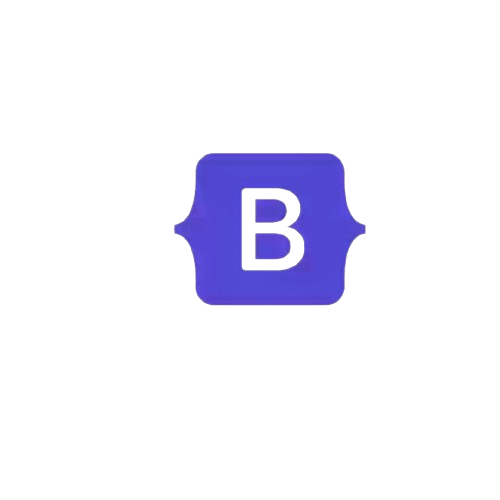
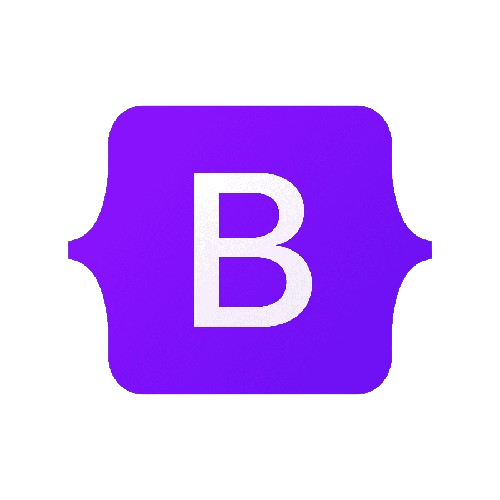
redesign of marquee 1 of 2

diff --git a/React-Portfolio-Project/src/components/pages/skills/Marquee.jsx b/React-Portfolio-Project/src/components/pages/skills/Marquee.jsx
@@ -1,34 +1,32 @@
 // a vertical marquee component that displays my web dev tech stack
 
-import nodeJSIMG from '../../../assets/marquee/nodeJSIMG.jpg'
-import reactIMG from '../../../assets/marquee/reactIMG.png'
-import tailwindIMG from '../../../assets/marquee/tailwindIMG.png'
-import bootstrapIMG from '../../../assets/marquee/bootstrapIMG.webp'
-import djangoIMG from '../../../assets/marquee/djangoIMG.png'
-import htmlandcssIMG from '../../../assets/marquee/htmlandcssIMG.jpg'
-import jsIMG from '../../../assets/marquee/jsIMG.jpg'
-import pythonIMG from '../../../assets/marquee/pythonIMG.png'
-import vueIMG from '../../../assets/marquee/vueIMG.jpg'
-import sqlIMG from '../../../assets/marquee/sqlIMG.png'
+import JS_no_BG from "../../../assets/marquee/JS_no_BG.png";
+import NODEJS_no_BG from "../../../assets/marquee/NODEJS_no_BG.png";
+import REACT_no_BG from "../../../assets/marquee/REACT_no_BG.png";
+import VUE_no_BG from "../../../assets/marquee/VUE_no_BG.png";
+import BS_no_BG from "../../../assets/marquee/BS_no_BG.png";
+import DJANGO_no_BG from "../../../assets/marquee/DJANGO_no_BG.png";
+import PYTHON_no_BG from "../../../assets/marquee/PYTHON_no_BG.png";
+import SQL_no_BG from "../../../assets/marquee/SQL_no_BG.png";
+import tailwindIMG from '../../../assets/marquee/tailwindIMG.png';
 
 const logos = [
-  { src: sqlIMG, alt: "SQL Logo", additionalClass: "" },
-  { src: djangoIMG, alt: "Django Logo", additionalClass: "" },
-  { src: pythonIMG, alt: "Python Logo", additionalClass: "" },
-  { src: bootstrapIMG, alt: "Bootstrap Logo", additionalClass: "scale-125" },
-  { src: tailwindIMG, alt: "Tailwind CSS Logo", additionalClass: "scale-90" },
-  { src: vueIMG, alt: "Vue Logo", additionalClass: "" },
-  { src: reactIMG, alt: "React Logo", additionalClass: "" },
-  { src: nodeJSIMG, alt: "NodeJS Logo", additionalClass: "scale-90" },
-  { src: jsIMG, alt: "JavaScript Logo", additionalClass: "" },
-  { src: htmlandcssIMG, alt: "HTML and CSS Logo", additionalClass: "mb-8 scale-150" },
-];
+  { src: SQL_no_BG, alt: 'SQL Logo', additionalClass: '' },
+  { src: PYTHON_no_BG, alt: 'Python Logo', additionalClass: '' },
+  { src: DJANGO_no_BG, alt: 'Django Logo', additionalClass: '' },
+  { src: NODEJS_no_BG, alt: 'NodeJS Logo', additionalClass: 'scale-90' },
+  { src: REACT_no_BG, alt: 'React Logo', additionalClass: 'scale-90' },
+  { src: VUE_no_BG, alt: 'Vue Logo', additionalClass: '' },
+  { src: BS_no_BG, alt: 'Bootstrap Logo', additionalClass: 'scale-125' },
+  { src: JS_no_BG, alt: 'JavaScript Logo', additionalClass: '' },
+  { src: tailwindIMG, alt: 'Tailwind CSS Logo', additionalClass: 'scale-90' }
+]
 
 function MarqueeRow({ className }) {
   return (
     <div className={className}>
       {logos.map((logo, index) => (
-        <span key={index} className={`mx-1 md:mx-2 lg:mx-4 xl:mx-5 ${logo.additionalClass}`}>
+        <span key={index} className={`${logo.additionalClass}`}>
           <img src={logo.src} alt={logo.alt} />
         </span>
       ))}
@@ -38,9 +36,11 @@ function MarqueeRow({ className }) {
 
 export default function Marquee() {
   return (
-    <div className="flex relative h-screen flex-col overflow-y-hidden">
-      <MarqueeRow className="animate-marquee absolute flex grow flex-col gap-8 whitespace-nowrap" />
-      <MarqueeRow className="animate-marquee2 absolute top-0 flex flex-col gap-8 whitespace-nowrap" />
+    <div className=" relative w-1/10 md:w-1/11 lg:w-1/12 xl:w-1/14 2xl:w-1/18">
+      <div className="relative flex h-screen flex-col overflow-y-hidden">
+        <MarqueeRow className="absolute flex grow animate-marquee gap-5 flex-col whitespace-nowrap" />
+        <MarqueeRow className="absolute top-0 flex animate-marquee2 gap-5 flex-col whitespace-nowrap" />
+      </div>
     </div>
-  );
+  )
 }

diff --git a/React-Portfolio-Project/src/components/pages/skills/SkillsPage.jsx b/React-Portfolio-Project/src/components/pages/skills/SkillsPage.jsx
@@ -1,7 +1,6 @@
 // child component detailing my web dev skills
 
 // import KeyboardArrows from '../../features/KeyboardArrows'
-import CombinedSlantedEdge from '../../shapes/CombinedSlantedEdge'
 import Marquee from './Marquee'
 import SkillsGrid from './SkillsGrid'
 
@@ -14,15 +13,13 @@ export default function SkillsPage() {
   //   right: keyClasses.keyInactiveClass,
   // }
 
-  const combinedSlantedEdgeClasses =
-    'shrink-0 relative w-1/10 md:w-1/11 lg:w-1/12 xl:w-1/14 2xl:w-1/18 bg-white border-r-2 border-gray-800'
+
+
 
   return (
     <div className="section">
       <div className="flex size-full">
-        <CombinedSlantedEdge classNames={combinedSlantedEdgeClasses}>
-          <Marquee />
-        </CombinedSlantedEdge>
+        <Marquee />
         <SkillsGrid />
       </div>
       {/* <KeyboardArrows keyStyling={keyStyling} /> */}
